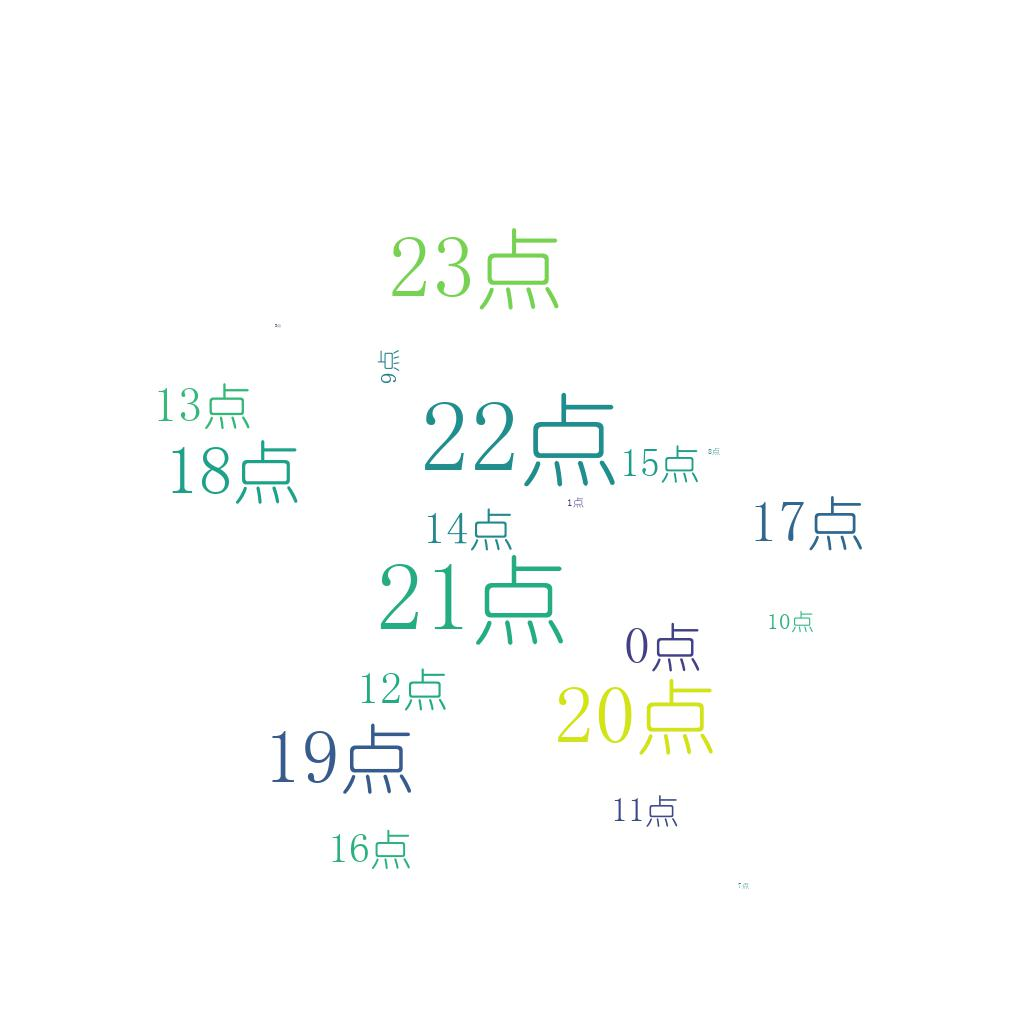
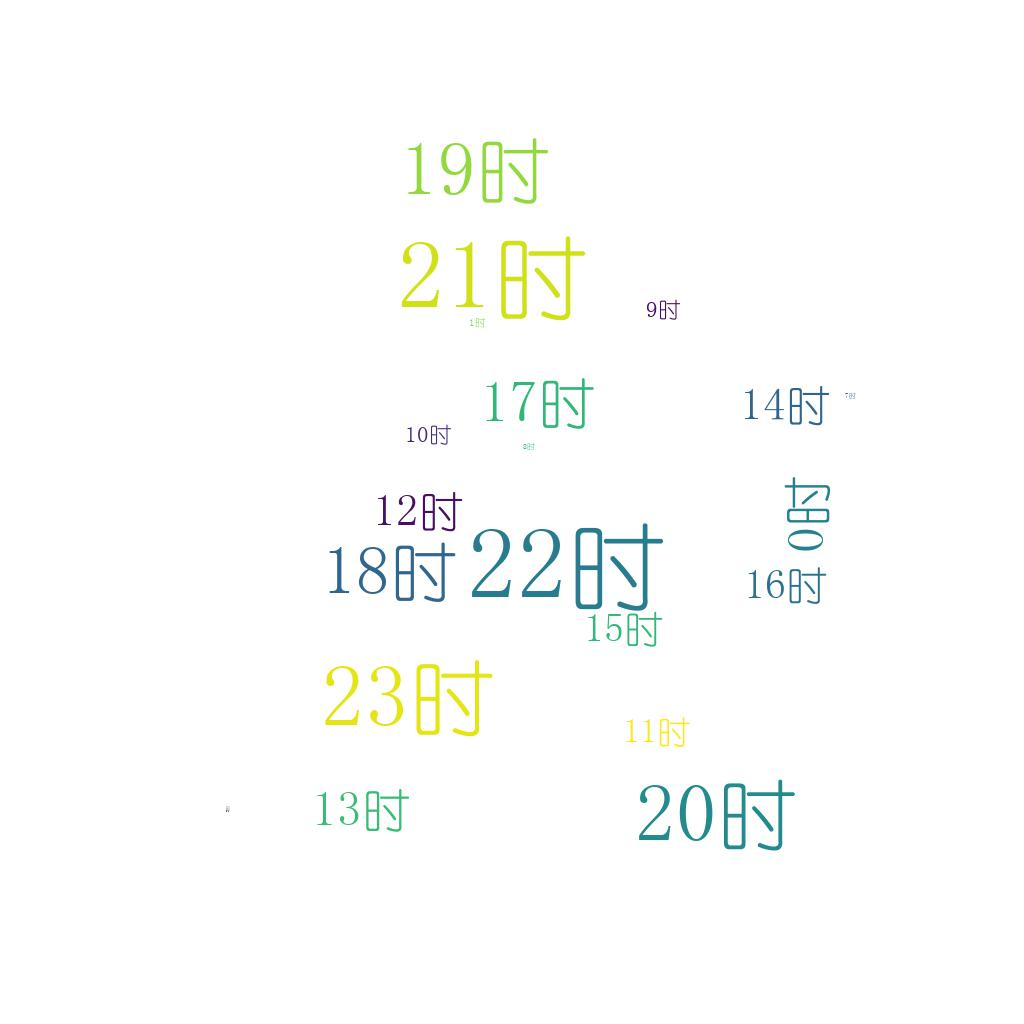
v 1.0.2 * 添加群友情感分析，对每个用户进行情感评分；

diff --git a/src/analyse.py b/src/analyse.py
@@ -101,22 +101,40 @@ def analyse():
 
     # 分析一天中群最活跃的时间段
     hours_counter_res = Counter(hours)
-    hours_counter = dict([(k + '点', v) for k, v in hours_counter_res.most_common(24)])
+    hours_counter = dict([(k + '时', v) for k, v in hours_counter_res.most_common(24)])
     print(hours_counter)
     draw(hours_counter, 'most_active_hour.jpg', 'huoguo.jpg')
-    txt = '我今天很伤心啊'
-    emotion_analyse(txt)
+
+    # 分析用户情感，推测用户性格
+    txt = []
+    user_sentiment = {}
+    for qq in most_active_person:
+        person_index = [i for i, x in enumerate(qqs) if x == qq]  # 最活跃的人的聊天记录的位置
+        for i in person_index:
+            txt.append(contents[i])
+        sentiment_index = emotion_analyse(txt, qq)  # 计算此qq用户的情感指数
+        user_sentiment[qq] = sentiment_index
+    print(user_sentiment)
 
 
 # 对单个qq用户的情感分析
-def emotion_analyse(txt=None):
+def emotion_analyse(txt_lst=None, qq=None):
     """
     desc:对单个qq用户的情感分析，推测此用户的性格以及生活习惯等,利用工具SnowNLP
-    :param txt: 传入需要分析的内容text
-    :return:
+    :param txt_lst: 传入需要分析的内容text
+    :param qq: 传入被分析人的qq
+    :return: 用户情感打分
     """
-    s = SnowNLP(txt)
-    print(s.sentiments)
+    if txt_lst is None or qq is None:
+        return
+    sentiment_scores = 0.0
+    for txt in txt_lst:
+        if len(txt) == 0:
+            txt = ' '
+        s = SnowNLP(txt)
+        sentiment_scores += s.sentiments
+        print(sentiment_scores, '<<<=====',qq)
+    return sentiment_scores/len(txt_lst)
 
 
 # 显示统计结果

diff --git a/src/main.py b/src/main.py
@@ -13,6 +13,12 @@ from src.analyse import *
 def main():
     read_data()
     analyse()
+    # lst = ['感觉搞无机的太少了', '她是个善良的女孩，温柔可爱', '今天天气不错，让我心情舒畅', '我真的很伤心啊', '我真的很无聊啊','他们肯定太无聊了']
+    # print(lst.index('我真的很伤心啊'))
+    # print([i for i, x in enumerate(lst) if x == '我真的很伤心啊'])
+    # for i in lst:
+    #     s = SnowNLP(i)
+    #     print(s.sentiments)
 
 
 if __name__ == '__main__':
